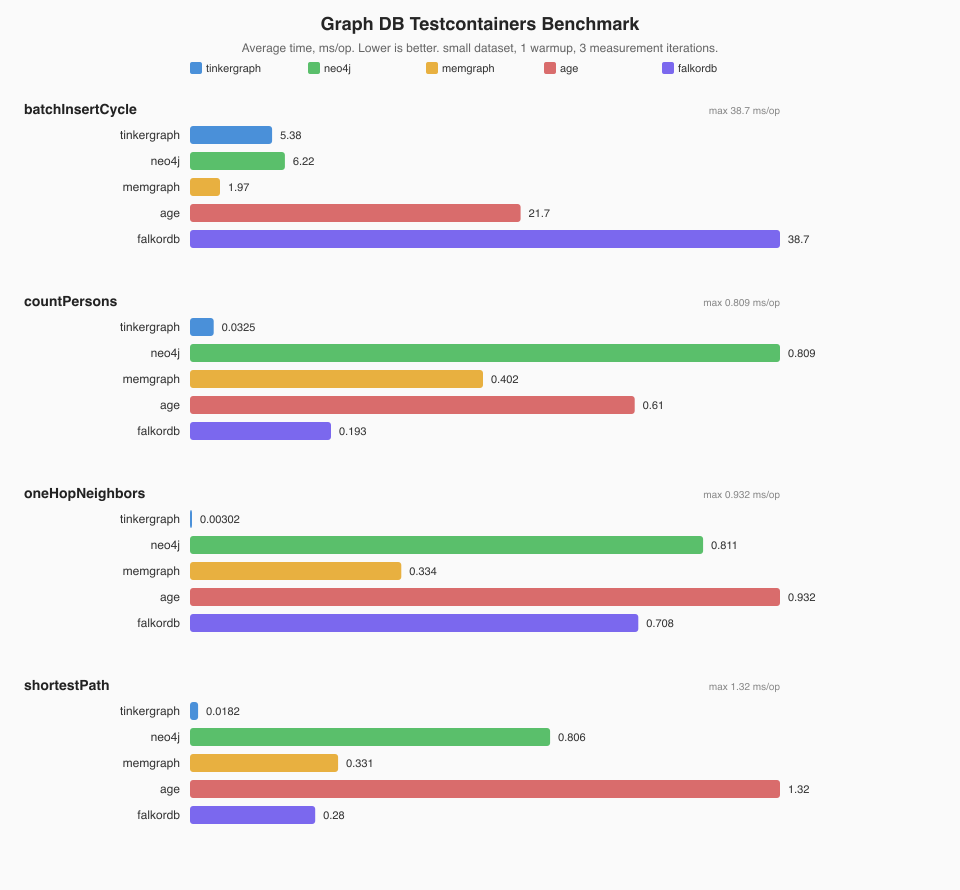
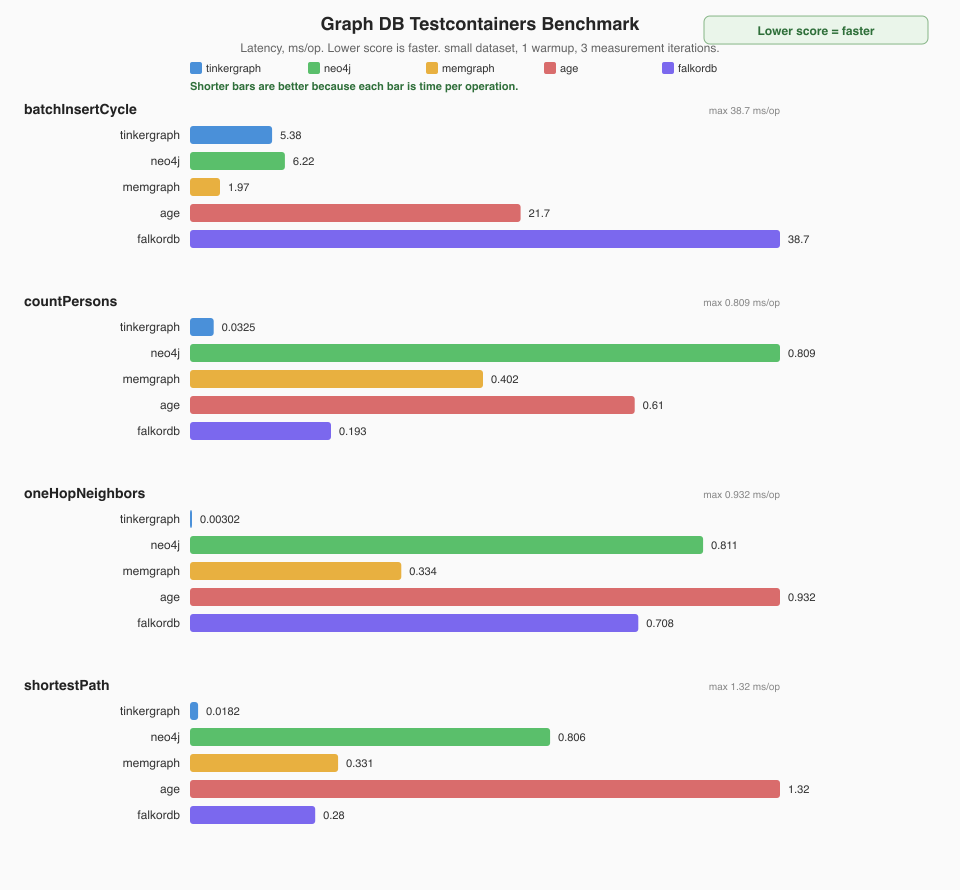
docs: clarify graph benchmark chart direction
Make the README benchmark chart state that lower ms/op scores are faster so readers do not confuse latency with throughput.

Constraint: User asked to add the meaning of lower-is-better directly to the chart.

Rejected: Rely only on README prose | The clarification should remain visible when the chart is viewed standalone.

Confidence: high

Scope-risk: narrow

Directive: Keep benchmark chart direction labels visible whenever latency and throughput charts coexist.

Tested: Regenerated SVG and PNG chart assets; verified chart text in SVG; verified PNG/SVG file types; ran python3 -m py_compile for the renderer; ran git diff --check.

Not-tested: Did not rerun benchmarks because only chart annotation changed.

Changed region(s): [[0.25, 0.0303, 0.75, 0.0607], [0.1875, 0.091, 0.5312, 0.1213], [0.7812, 0.0303, 0.9688, 0.0607]]

diff --git a/benchmark/graph-benchmark/scripts/render_graph_db_backend_chart.py b/benchmark/graph-benchmark/scripts/render_graph_db_backend_chart.py
@@ -64,7 +64,10 @@ def render(grouped: dict[str, list[dict]], output: Path) -> None:
         '<text x="480" y="30" text-anchor="middle" font-family="sans-serif" font-size="18" '
         'font-weight="bold" fill="#252525">Graph DB Testcontainers Benchmark</text>',
         '<text x="480" y="52" text-anchor="middle" font-family="sans-serif" font-size="12" '
-        'fill="#666666">Average time, ms/op. Lower is better. small dataset, 1 warmup, 3 measurement iterations.</text>',
+        'fill="#666666">Latency, ms/op. Lower score is faster. small dataset, 1 warmup, 3 measurement iterations.</text>',
+        '<rect x="704" y="16" width="224" height="28" fill="#EAF5EA" stroke="#86B586" rx="6"/>',
+        '<text x="816" y="35" text-anchor="middle" font-family="sans-serif" font-size="12" '
+        'font-weight="bold" fill="#2F6F3A">Lower score = faster</text>',
     ]
 
     legend_x = left
@@ -76,6 +79,11 @@ def render(grouped: dict[str, list[dict]], output: Path) -> None:
             f'{esc(backend)}</text>'
         )
         legend_x += 118
+
+    parts.append(
+        f'<text x="{left}" y="90" font-family="sans-serif" font-size="11" '
+        'font-weight="bold" fill="#2F6F3A">Shorter bars are better because each bar is time per operation.</text>'
+    )
 
     y = top + 26
     for operation in operations:
